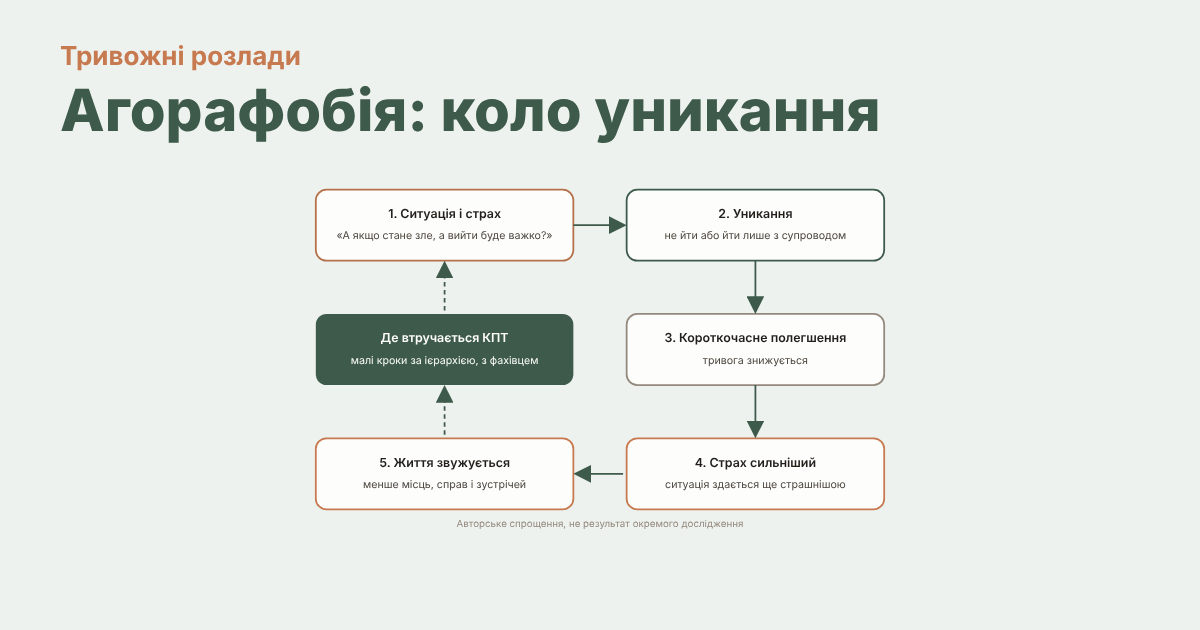
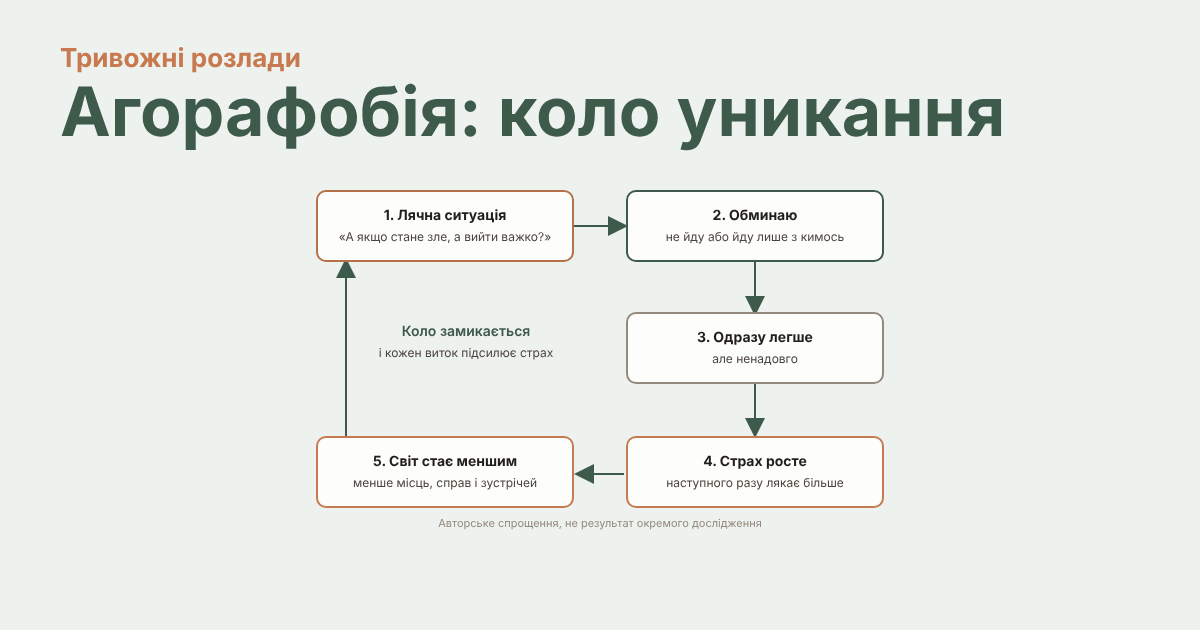
Агорафобія: схема кола без дій КПТ (SVG, og-image, alt); CLAUDE.md: у статтях джерела лише переліком у кінці
Claude-Session: https://claude.ai/code/session_01MXsAUQW1oXfJ3UQjzCsAMD

diff --git a/CLAUDE.md b/CLAUDE.md
@@ -19,6 +19,7 @@
 - Вказувати тип джерела й обмеження. Власні приклади й ілюстрації позначати як авторські.
 - Мало джерел на вузьку тему: так і сказати в листі власнику, замість писати з припущень.
 - Нічого про ліки, дози, діагностику, окрім скерування до лікаря.
+- **Джерела в тексті статей (`src/statti/`) не вказувати** (за вказівкою власника, 28.10.2026): жодних посилань на джерела, DOI, авторів, журнали, роки чи назв досліджень у тексті, `tldr` і `faq`; висновки формулювати загально («дослідження показують», «докази обмежені»), цифри з джерел можна, але без прив'язки до назви. Усі джерела лише переліком у `sources` (він показується в кінці статті). Правило **не стосується блогу** (там джерела в тексті за потреби).
 - Перед надсиланням пройти `CONTENT-REVIEW-CHECKLIST.md` (розділи A–E) і коротко відзвітувати, що перевірено, а що викликає сумнів.
 
 ### Реєстр джерел (оновлено 27.10.2026)
@@ -112,7 +113,7 @@ URL генерується з `title`. `layout` для `/blog/` завжди `bl
 
 Текст, зручний для пошуку й ШІ:
 - Один `h1` (його дає шаблон), у тексті лише `##`/`###`. Заголовки `##` формулювати як запитання або чіткі теми.
-- На початку розділу одразу пряма відповідь, потім пояснення. Терміни розшифровувати при першій появі. Одне твердження = одне джерело поруч.
+- На початку розділу одразу пряма відповідь, потім пояснення. Терміни розшифровувати при першій появі. Кожне твердження має джерело в `sources` (у статтях без посилань у тексті, у блозі можна й у тексті).
 - Внутрішні посилання: 2–4 на наявні сторінки з описовим текстом посилання (не «тут»). Сторінка не повинна бути «сиротою»: додати посилання на нову статтю з 1–2 суміжних наявних (окремою правкою, лише з дозволу власника).
 - Зображення: розгорнутий `alt` українською, `width`/`height`.
 - Нічого не додавати в `llms.txt`, `sitemap.xml`, `robots.txt`, feed вручну: вони будуються з колекцій.
